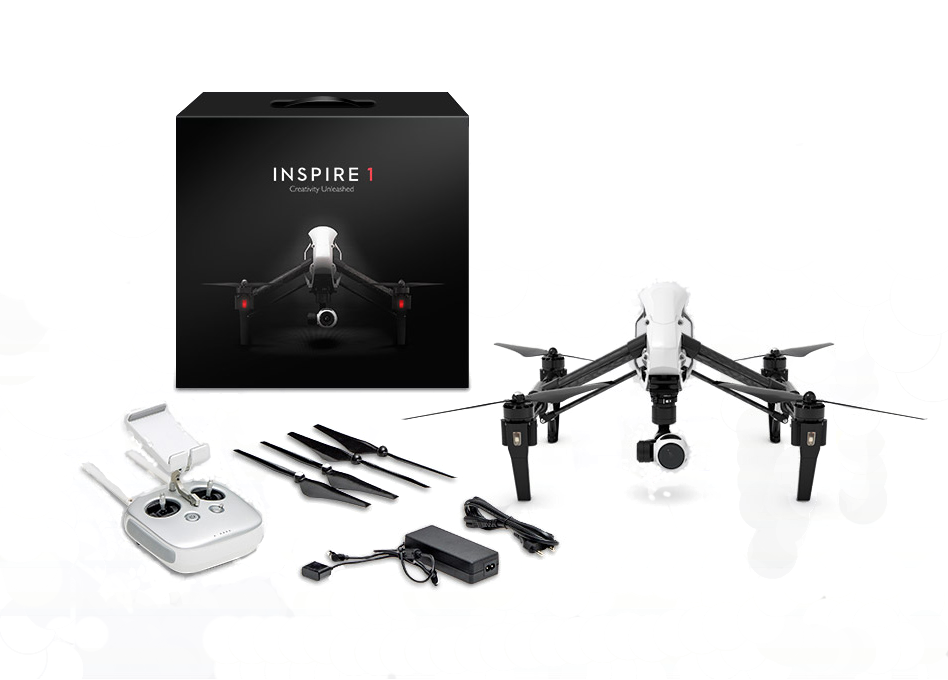
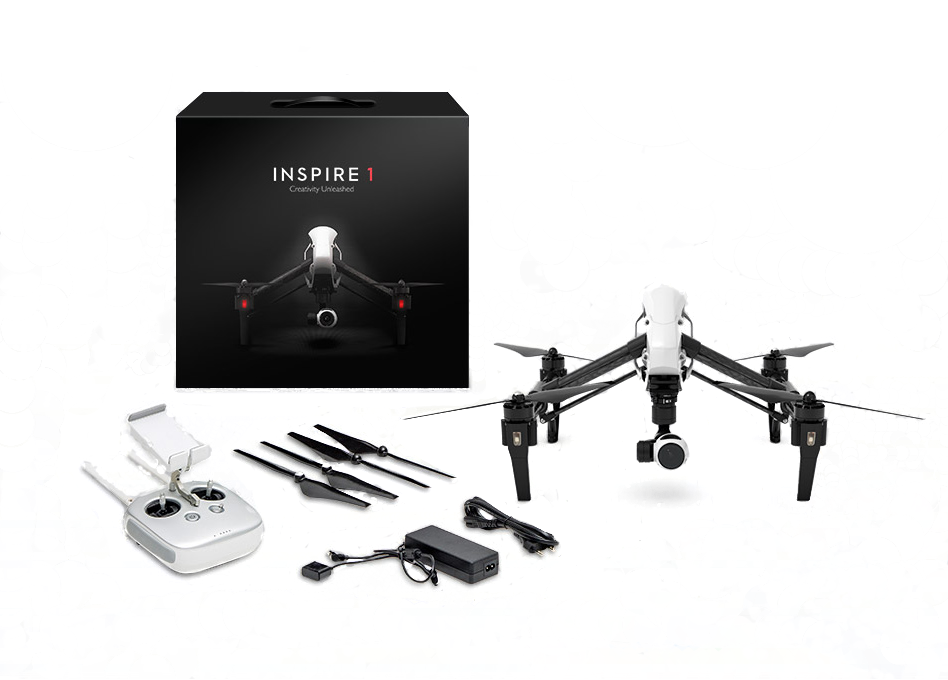
Deleted test images and added lazyload package

diff --git a/app/index.html b/app/index.html
@@ -74,10 +74,10 @@
 
         <div class="col-xs-12 col-md-6">
           <picture>
-            <source srcset="assets/images/about--desktop.jpg 800w, assets/images/about--desktop-hi-dpi.jpg 1600w" media="(min-width:1367px)">
-            <source srcset="assets/images/about--tablet-landscape.jpg 400w, assets/images/about--tablet-landscape-hi-dpi.jpg 800w" media="(min-width:1024px)">
-            <source srcset="assets/images/about--mobile-landscape.jpg 800w, assets/images/about--mobile-landscape-hi-dpi.jpg 1600w" media="(min-width:640px)">
-            <img srcset="assets/images/about--mobile-portrait.jpg 565w, assets/images/about--mobile-portrait-hi-dpi.jpg 1130w" alt="The Inspire 1 on a flim set">
+            <source data-srcset="assets/images/about--desktop.jpg 800w, assets/images/about--desktop-hi-dpi.jpg 1600w" media="(min-width:1367px)">
+            <source data-srcset="assets/images/about--tablet-landscape.jpg 400w, assets/images/about--tablet-landscape-hi-dpi.jpg 800w" media="(min-width:1024px)">
+            <source data-srcset="assets/images/about--mobile-landscape.jpg 800w, assets/images/about--mobile-landscape-hi-dpi.jpg 1600w" media="(min-width:640px)">
+            <img class="lazyload" data-srcset="assets/images/about--mobile-portrait.jpg 565w, assets/images/about--mobile-portrait-hi-dpi.jpg 1130w" alt="The Inspire 1 on a flim set">
 
           </picture>
         </div>
@@ -239,7 +239,7 @@
           </div>
 
           <div class="col-sm-6">
-            <img src="assets/images/remote.png" alt="" class="remote__controller">
+            <img class="lazyload" data-src="assets/images/remote.png" alt="" class="remote__controller">
 
             </div>
 
@@ -258,7 +258,7 @@
         </div>
 
         <div class="col-sm-6 col-md-5">
-          <img src="assets/images/remote-lightbridge.png" alt="" class="remote__lightbridge">
+          <img class="lazyload" data-src="assets/images/remote-lightbridge.png" alt="" class="remote__lightbridge">
 
           </div>
 
@@ -297,7 +297,7 @@
   <section class="buy page-section current-section" id="buy" data-matching-link="#buy-link">
 
     <div class="container">
-      <img src="assets/images/test7.png" alt="" class="buy__img">
+      <img src="assets/images/buy.png" alt="" class="buy__img">
       <h2 class="heading heading--buy">Buy Inspire 1</h2>
       <p class="generic-content generic-content--price">From USD &#36;2&#44;414.99</p>
       <div class="generic-content generic-content--package">
